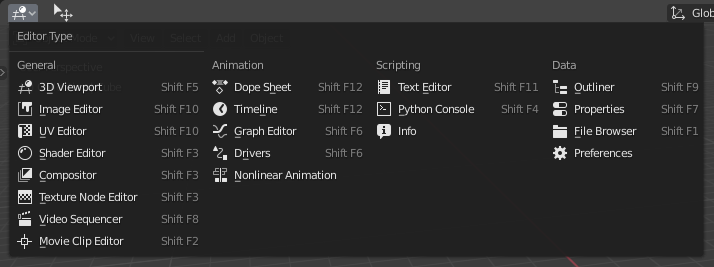
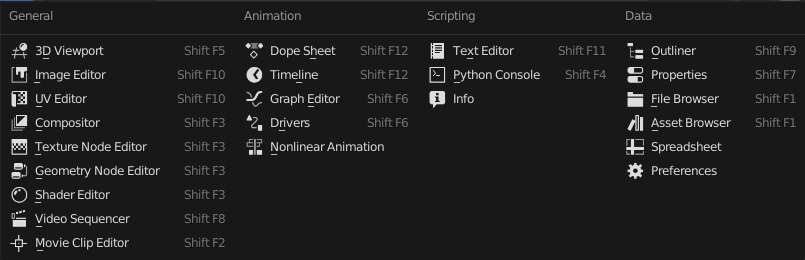
Merge branch 'blender-3.1-release'
git-svn-id: https://svn.blender.org/svnroot/bf-manual/trunk/blender_docs@9033 c4de1f47-6596-e411-a384-0024e86c2797

Changed region(s): [[0.0, 0.0, 1.0, 1.0], [0.2157, 0.7077, 0.2773, 0.7692], [0.2157, 0.1538, 0.2773, 0.2154]]

diff --git a/manual/interface/operators.rst b/manual/interface/operators.rst
@@ -1,0 +1,42 @@
+
+*********
+Operators
+*********
+
+Operators execute an action as soon as the operator is started
+which make them different from tools which require some sort of input.
+Operators can be started from a :ref:`ui-operator-buttons`,
+:ref:`ui-header-menu`, or :ref:`bpy.ops.wm.search_menu`.
+Examples of operators include adding a new object,
+deleting it, or setting its shading to smooth.
+
+
+Operator Properties
+===================
+
+Most operators have properties that can be adjusted to refine the result of the operation.
+To adjust an operators properties, the operator must first be executed.
+This will execute the operation with its default property values.
+These properties can then be adjusted using :ref:`bpy.ops.screen.redo_last`.
+
+
+Modal Operators
+===============
+
+Modal operators exist as concept in between :doc:`Tools </interface/tool_system>`
+and regular described above operators.
+They require some sort of input to interactively control the operator's properties.
+
+
+Slider Operators
+----------------
+
+Slider operators are a type of modal operator used interactively adjust a factor property.
+Slider operators will display a percentage graphic in the editor's :ref:`ui-region-header`.
+Slider operators can adjust the operator's factor value by moving
+the mouse left or right to decrease or increase the factor property.
+
+Values can be snapped to 10% increments by holding :kbd:`Ctrl`
+and changed using precision by holding :kbd:`Shift`.
+Values can extend beyond the 0-100% range by toggling "overshoot" on with :kbd:`E`.
+Note, overshoot is not be available for all slider operators.

diff --git a/manual/interface/controls/templates/operator_search.rst b/manual/interface/controls/templates/operator_search.rst
@@ -15,7 +15,8 @@ Menu Search
    :Menu:      :menuselection:`Edit --> Menu Search`
    :Shortcut:  :kbd:`F3`
 
-The Menu Search pop-up searches Blender's interface for a desired operator and allows you to execute that operator.
+The Menu Search pop-up searches Blender's interface for a desired
+:doc:`/interface/operators` and allows you to execute that operator.
 It displays a list of matches and shows which menu the operator was found in.
 Start typing the name of the operator you want to refine the list.
 When the list is sufficiently narrowed, :kbd:`LMB` on the desired operator or
@@ -44,7 +45,8 @@ Operator Search
 
 When :ref:`Developer Extras <prefs-interface-dev-extras>` are activated
 the Operator Search can be accessed from the Edit menu in the Topbar.
-This search menu search all operators within Blender even if they are not exposed in a menu.
+This search menu search all :doc:`/interface/operators`
+within Blender even if they are not exposed in a menu.
 This is useful for Python developers for testing purposes.
 Blender might also include a few advanced operators that are not
 exposed in a menu and can only be accessed via this search menu.

diff --git a/manual/animation/armatures/bones/properties/display.rst b/manual/animation/armatures/bones/properties/display.rst
@@ -20,7 +20,6 @@ Hide
 
 
 .. _bpy.types.PoseBone.custom_shape:
-.. _bpy.types.Bone.show_wire:
 
 Custom Shape
 ============
@@ -32,12 +31,24 @@ In order to be visible the *Shapes* checkbox has to be enabled
 
 Custom Object
    Object that defines the custom shape of the selected bone.
+
+Scale X, Y, Z
+   Additional scaling factor to apply to the custom shape.
+
+Translation X, Y, Z
+   Additional translation factor to apply to the custom shape.
+
+Rotation X, Y, Z
+   Additional rotation factor to apply to the custom shape.
+
 Override Transform
    Bone that defines the display transform of the custom shape.
-Scale
-   Additional scaling factor to apply to the custom shape.
+
 Scale to Bone Length
    Option not to use bones length, so that changes in Edit Mode don't resize the custom shape.
+
+.. _bpy.types.Bone.show_wire:
+
 Wireframe
    When enabled, bone is displayed in wireframe mode regardless of the viewport display mode.
    Useful for non-obstructive custom bone chains.

diff --git a/manual/render/cycles/object_settings/cameras.rst b/manual/render/cycles/object_settings/cameras.rst
@@ -60,6 +60,20 @@ Field of View
    Field of view angle, going to 360 and more to capture the whole environment.
 
 
+Fisheye Lens Polynomial
+-----------------------
+
+Match a real world camera by specifying the coordinates of a 4th degree polynomial.
+A position :math:`(x, y)` on the camera sensor in mm is mapped to a direction with
+spherical coordinates :math:`(1, \theta, \phi)` in radians as follows: 
+
+.. math::
+  & r = \sqrt{x^2 + y^2}\\
+  & \theta = k_0 + k_1 r + k_2 r^2 + k_3 r^3 + k_4 r^4\\
+  & \phi = acos(x/r)
+
+This can be used to model both fisheye and perspective cameras.
+
 Mirror Ball
 -----------
 

diff --git a/manual/interface/window_system/regions.rst b/manual/interface/window_system/regions.rst
@@ -33,8 +33,8 @@ the availability of additional regions are different between editors.
 See specific documentation about each editor in the :doc:`Editors </editors/index>` chapter.
 
 
-.. _ui-region-header:
 .. _bpy.types.Header:
+.. _ui-region-header:
 
 Header
 ======
@@ -139,7 +139,7 @@ These special scrollbars will have added widgets at the ends, as shown in the fo
 
 .. figure:: /images/interface_window-system_regions_scrollbar_widget.png
    :align: center
-   
+
    Scrollbars with zoom widgets.
 
 This can be used to stretch or compress the range to show more or less detail within the available screen space.

diff --git a/manual/editors/index.rst b/manual/editors/index.rst
@@ -29,10 +29,10 @@ See :doc:`User Interface </interface/index>` for documentation on the general in
    3dview/index.rst
    image/index.rst
    uv/index.rst
-   shader_editor.rst
    compositor.rst
-   geometry_node.rst
    texture_node/index.rst
+   geometry_node.rst
+   shader_editor.rst
    video_sequencer/index.rst
    clip/index.rst
 
@@ -68,5 +68,5 @@ See :doc:`User Interface </interface/index>` for documentation on the general in
    properties_editor.rst
    file_browser.rst
    asset_browser.rst
-   preferences/index.rst
    spreadsheet.rst
+   preferences/index.rst

diff --git a/manual/interface/undo_redo.rst b/manual/interface/undo_redo.rst
@@ -52,7 +52,7 @@ Adjust Last Operation
    :Menu:      :menuselection:`Edit --> Adjust Last Operation...`
    :Shortcut:  :kbd:`F9`
 
-After an operation is complete you can tweak the parameters of the operation afterwards.
+After an operation is complete you can tweak the parameters of :doc:`/interface/operators` afterwards.
 In editors that support it, there is a "head-up display" panel in the bottom left
 based on the last performed operation; dependent on mode and context.
 Alternatively, you can create a pop-up with :kbd:`F9` which does the same thing.

diff --git a/manual/interface/controls/buttons/menus.rst b/manual/interface/controls/buttons/menus.rst
@@ -4,7 +4,7 @@
 Menus
 *****
 
-Blender uses a variety of different menus for accessing options and operators.
+Blender uses a variety of different menus for accessing options and :doc:`/interface/operators`.
 Selecting menus can be interacted with in the following ways:
 
 Mouse selection
@@ -31,8 +31,8 @@ Scrolling is done by moving the mouse below or above the scrolling indicator.
   or by :kbd:`LMB` clicking anywhere out of it.
 
 
-.. _ui-header-menu:
 .. _bpy.types.UIPopupMenu:
+.. _ui-header-menu:
 
 Header Menus
 ============

diff --git a/manual/interface/controls/buttons/buttons.rst b/manual/interface/controls/buttons/buttons.rst
@@ -14,8 +14,9 @@ Operator Buttons
 
    Operator button.
 
-Operator buttons perform an action when clicked with :kbd:`LMB`.
-Button may show an icon, text, or both.
+Operator buttons execute an :doc:`Operator </interface/operators>`
+which in summary execute an action when clicked with :kbd:`LMB`.
+Operator buttons may be an icon, text, or text with an icon.
 
 .. container:: lead
 

diff --git a/manual/interface/controls/nodes/sidebar.rst b/manual/interface/controls/nodes/sidebar.rst
@@ -47,7 +47,7 @@ Color
    Color of the node background.
 
    Node Color Specials
-      This menu contains operators for working with nodes with custom colors.
+      This menu contains :doc:`/interface/operators` for working with nodes with custom colors.
 
       .. _bpy.ops.node.node_copy_color:
 

diff --git a/manual/editors/preferences/navigation.rst b/manual/editors/preferences/navigation.rst
@@ -50,9 +50,6 @@ Orbit Around Selection
       it can be inconvenient for larger objects such as a terrain mesh,
       where the center is not necessarily a point of interest.
 
-Natural Trackpad Direction
-   Todo (macOS only).
-
 .. _prefs-interface-auto-perspective:
 .. _prefs-auto-depth:
 

diff --git a/manual/interface/index.rst b/manual/interface/index.rst
@@ -68,13 +68,14 @@ Extended Controls
    controls/nodes/index.rst
 
 
-Tools
-=====
+Tools & Operators
+=================
 
 .. toctree::
    :maxdepth: 1
 
    tool_system.rst
+   operators.rst
    undo_redo.rst
    annotate_tool.rst
    selecting.rst
